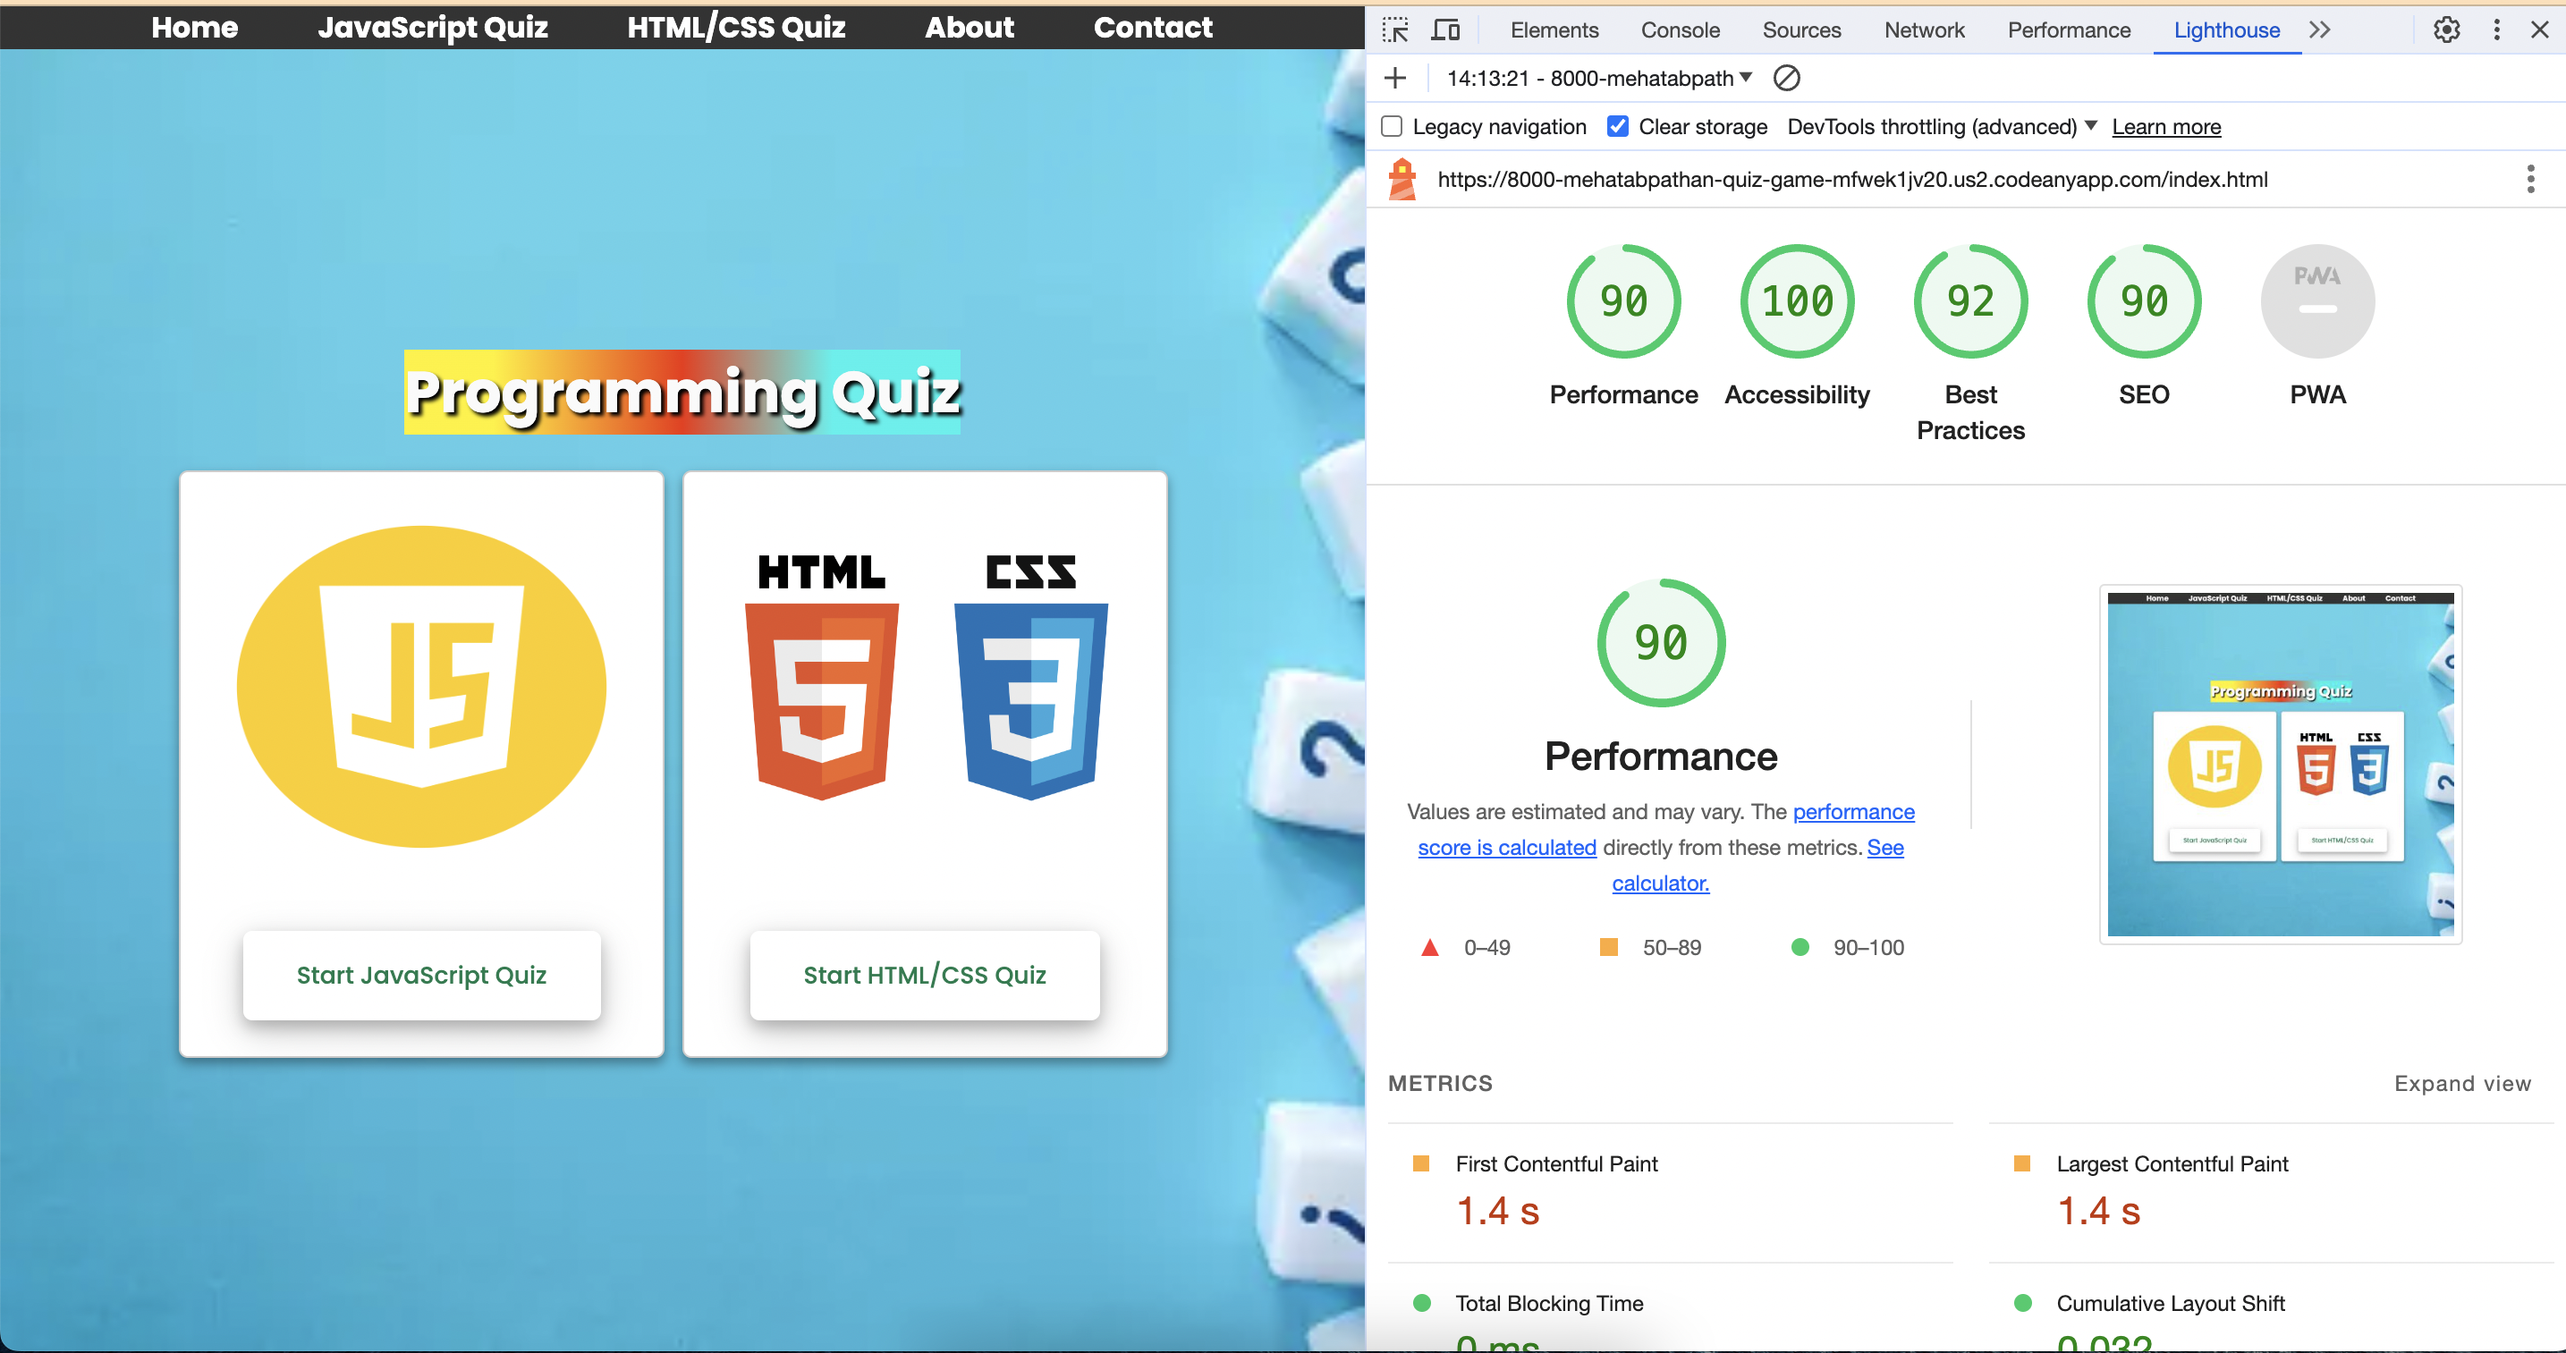
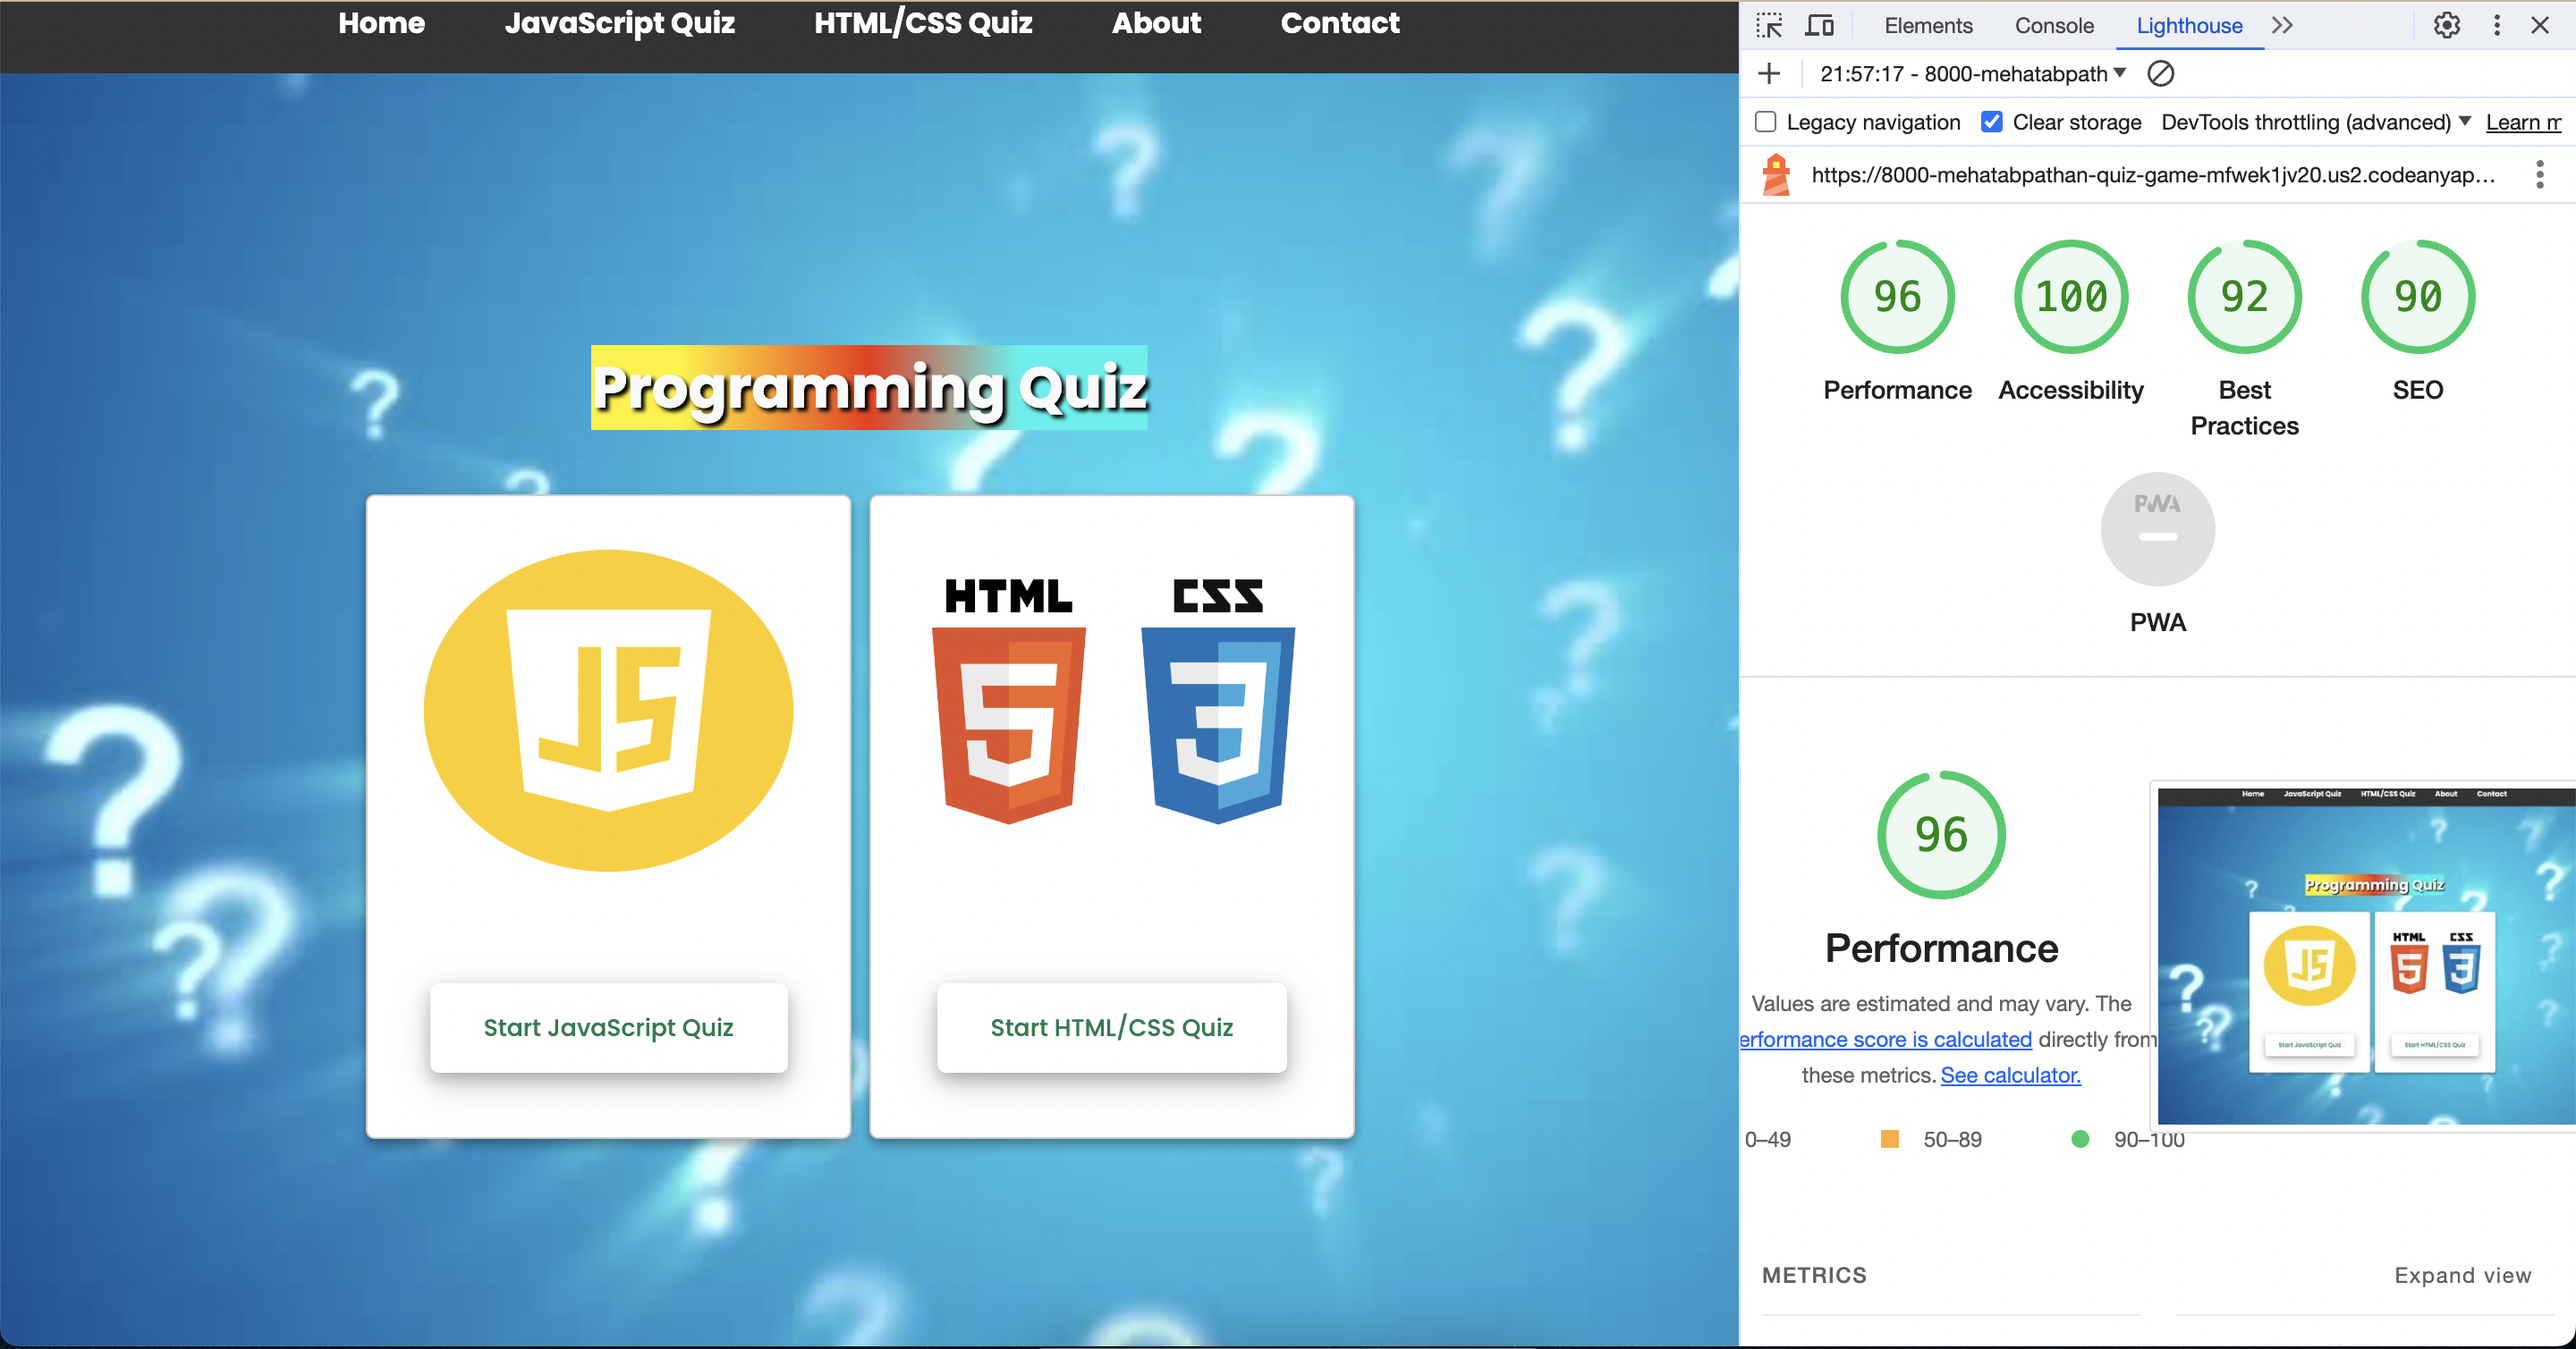
adding responsive image in readme

diff --git a/assets/css/style.css b/assets/css/style.css
@@ -57,7 +57,7 @@ body {
     padding: 0;
     box-sizing: border-box;
     font-family: 'Poppins', sans-serif;
-    margin-bottom: 1rem;
+    
 }
 .container img{
     max-width: 100%;
@@ -110,7 +110,7 @@ div.container.fade {
 }
 
 body {
-    background: url('../images/image.png') no-repeat;
+    background: url('../images/image.jpeg') no-repeat;
     background-size: cover;
     height: 100vh;
     width: 100vw;
@@ -448,6 +448,7 @@ nav ul {
     list-style-type: none;
     padding: 0px;
     text-align: center;
+    margin-bottom: 1rem;
 }
 
 nav li {
